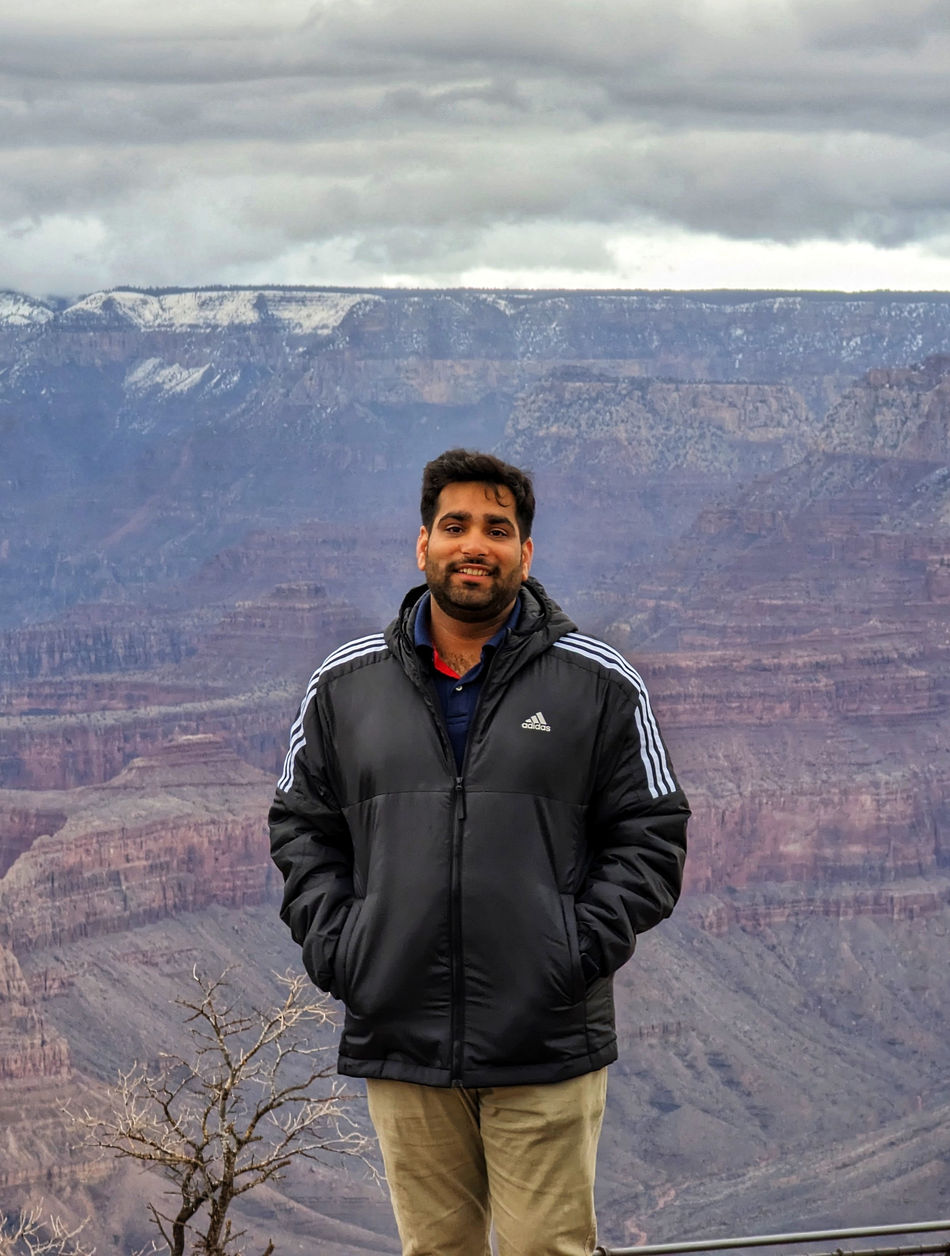
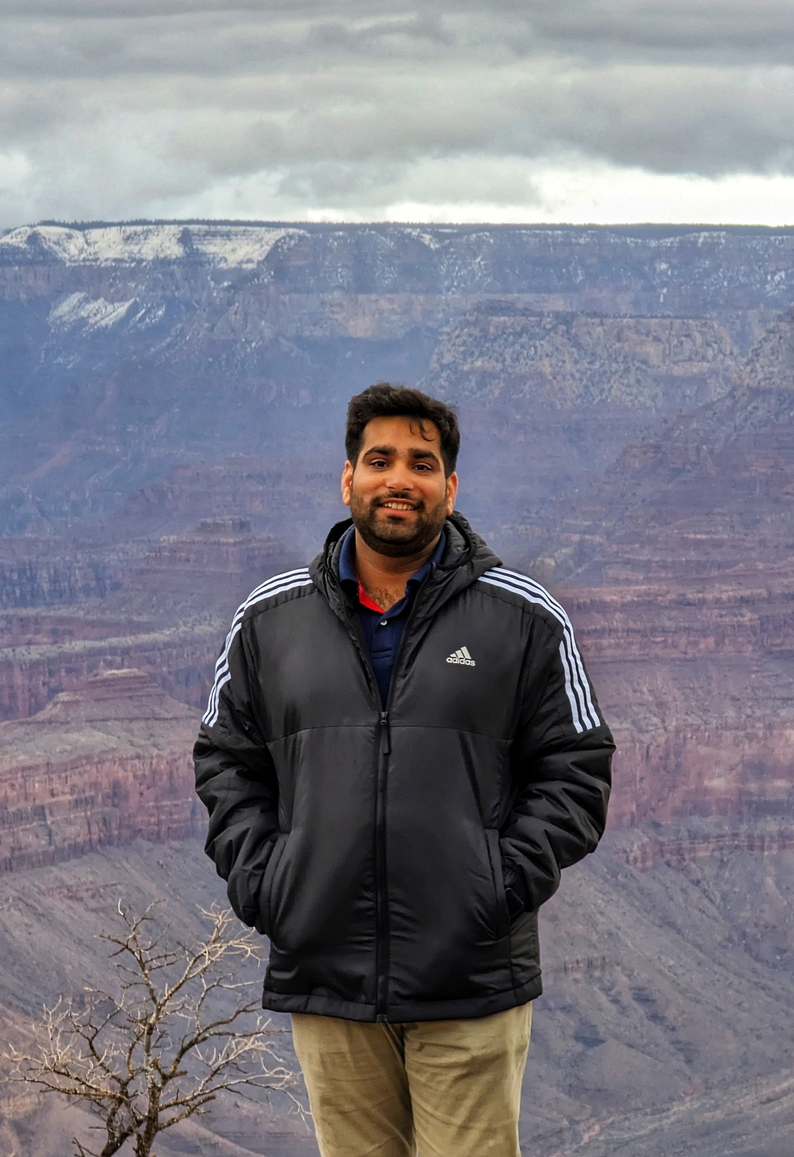
Update team member's profile picture size

diff --git a/_pages/team.md b/_pages/team.md
@@ -24,7 +24,7 @@ See team in action: [Lab Pictures]({{ site.url }}{{ site.baseurl }}/pictures)!
 {% endif %}
 
 <div class="col-sm-6 clearfix">
-  <img src="{{ site.url }}{{ site.baseurl }}/images/teampic/{{ member.photo }}" class="img-responsive" width="150px" style="float: left" />
+  <img src="{{ site.url }}{{ site.baseurl }}/images/teampic/{{ member.photo }}" class="img-responsive" width="140px" style="float: left" />
   <h4>{{ member.name }}</h4>
   <i>{{ member.info }} {% if member.link %}<b>[<a href="{{member.link}}" target="_blank">Homepage</a>]</b>{% endif %}
   <br>email: {{ member.email }}</i>
